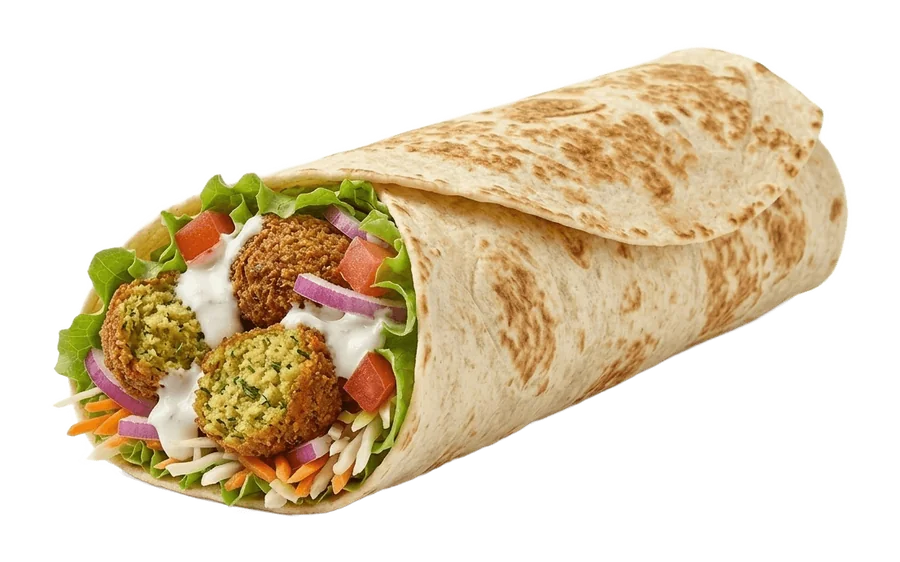
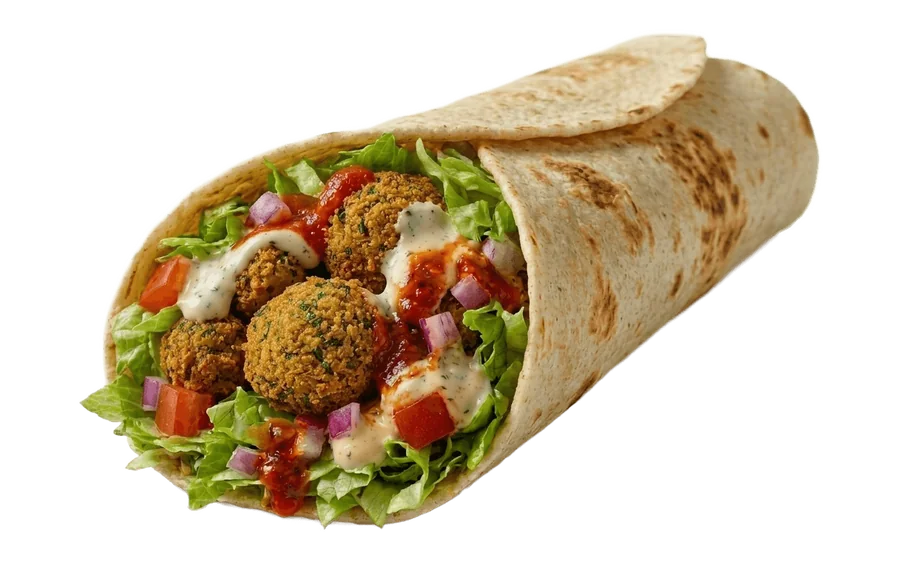
Fotos IA lote 2: dürüm, kebab y fotos de combo en "En menú"
- 11 fotos nuevas (fondo quitado, encuadre de la carta): dürüm pollo,
  ternera, mixto, falafel, solo carne y vegetal; kebab mixto, falafel,
  loco, solo carne y vegetal.
- Fotos de combo (kebab, hamburguesa de vacuno, hamburguesa de pollo) en la
  opción "En menú" del asistente: una opción puede llevar "imagen" y, en
  el paso "menu", "Solo" enseña la foto del producto para ir parejas.
- supabase/menu_imagenes_ia_lote2.sql asigna las fotos (ejecutar tras
  desplegar). Probado dos veces sobre la copia local: precios intactos.

Claude-Session: https://claude.ai/code/session_01RMyYNSsmfywa2Lq4Hvwiag

diff --git a/client/src/components/MenuWizard.jsx b/client/src/components/MenuWizard.jsx
@@ -81,7 +81,11 @@ export default function MenuWizard({ producto, idioma, onConfirmar, onCancelar }
         <div className="menu-wizard-paso">
           <h2 className="menu-wizard-titulo">{pasoActual.titulo}</h2>
           {pasoActual.nota && <p className="menu-wizard-nota">{pasoActual.nota}</p>}
-          <div className="menu-wizard-opciones">
+          <div
+            className={`menu-wizard-opciones ${
+              pasoActual.opciones.some((o) => o.imagen) ? "menu-wizard-opciones--fotos" : ""
+            }`}
+          >
             {pasoActual.opciones.map((opcion) => {
               const elegida = (seleccion[pasoActual.id] || []).includes(opcion.id);
               // El paso de tamaño (si lo hubiera) muestra el precio
@@ -133,13 +137,25 @@ export default function MenuWizard({ producto, idioma, onConfirmar, onCancelar }
                 );
               }
 
+              // Foto en la ficha (a petición del cliente, para "Solo" / "En
+              // menú"): la opción la trae en `imagen` (p. ej. la foto del
+              // combo con patatas y bebida). Si alguna opción del paso
+              // "menu" tiene foto, "Solo" enseña la del propio producto,
+              // para que las dos fichas se vean parejas.
+              const fotoOpcion =
+                opcion.imagen ||
+                (pasoActual.id === "menu" && opcion.id === "solo" && pasoActual.opciones.some((o) => o.imagen)
+                  ? producto.imagen
+                  : null);
+
               return (
                 <button
                   key={opcion.id}
                   type="button"
-                  className={`menu-wizard-opcion ${elegida ? "elegida" : ""}`}
+                  className={`menu-wizard-opcion ${fotoOpcion ? "menu-wizard-opcion--foto" : ""} ${elegida ? "elegida" : ""}`}
                   onClick={() => elegirOpcion(pasoActual, opcion.id)}
                 >
+                  {fotoOpcion && <img src={fotoOpcion} alt="" className="menu-wizard-opcion-foto" />}
                   <span className="menu-wizard-opcion-nombre">{opcion.nombre}</span>
                   {precioMostrado > 0 && (
                     <span className="menu-wizard-opcion-precio">

diff --git a/client/src/styles.css b/client/src/styles.css
@@ -3732,6 +3732,27 @@ h4,
   opacity: 0.75;
 }
 
+/* Paso con fotos ("Solo" / "En menú"): fichas grandes, foto arriba. */
+.menu-wizard-opciones--fotos {
+  grid-template-columns: repeat(auto-fit, minmax(340px, 400px));
+  justify-content: center;
+  gap: 28px;
+}
+
+.menu-wizard-opcion--foto {
+  min-height: 380px;
+  justify-content: flex-start;
+  padding: 24px 20px 22px;
+}
+
+.menu-wizard-opcion-foto {
+  width: 100%;
+  max-width: 360px;
+  aspect-ratio: 16 / 10;
+  object-fit: contain;
+  display: block;
+}
+
 /* "Quitar ingredientes": icono tachado apagado mientras el ingrediente
    sigue incluido, en rojo al marcarlo para quitar. */
 .menu-wizard-opcion--quitar .menu-wizard-quitar-icono {

diff --git a/.claude/skills/tpv-restaurante/SKILL.md b/.claude/skills/tpv-restaurante/SKILL.md
@@ -706,7 +706,12 @@ pantalla completa con "Toca para pedir · Tap to order", sale al abrir el
 kiosco y tras inactividad (`useInactividad.js`: 60 s sin pedido, 3 min con un
 pedido a medias, que entonces se descarta). El primer toque solo lo cierra
 (se cierra en `click`, no en `pointerdown`, para que no atraviese al botón de
-debajo) y deja en elegir idioma. La pantalla final (`Checkout.jsx`, número de pedido) vuelve sola a `/` (y por tanto al salvapantallas) tras 60 s sin tocarla. **Bebidas**: fotos de
+debajo) y deja en elegir idioma. La pantalla final (`Checkout.jsx`, número de pedido) vuelve sola a `/` (y por tanto al salvapantallas) tras 60 s sin tocarla. **Fotos IA lote 2** (`supabase/menu_imagenes_ia_lote2.sql`): dürüm pollo/ternera/
+mixto/falafel/solo carne/vegetal, kebab mixto/falafel/loco/solo carne/vegetal
+(`menu/*-ia.webp`) y fotos de combo (`menu/combo-*.webp`). Una opción de un paso
+puede llevar `imagen`; `MenuWizard.jsx` la enseña en la ficha y, en el paso
+`menu`, "Solo" usa la foto del producto si "En menú" tiene foto (kebabs,
+hamburguesa de vacuno y pollo crispy). **Bebidas**: fotos de
 Coca-Cola (botella), Coca-Cola 0, Monster y agua (Ciel) con el fondo
 quitado con `@imgly/background-removal-node` (npm, modelo incluido, funciona
 sin red — útil para próximos lotes) y `supabase/menu_imagenes_bebidas.sql`;
